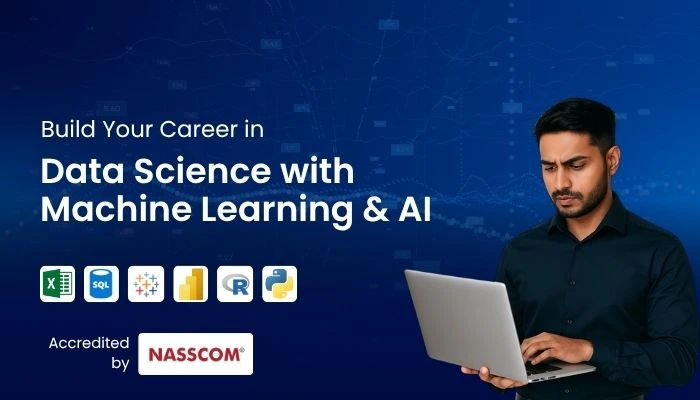
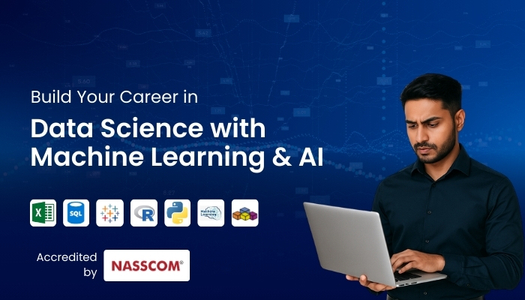
added image

diff --git a/src/components/home/FeaturedCourses.tsx b/src/components/home/FeaturedCourses.tsx
@@ -23,7 +23,7 @@ import CDEI from "@/assests/CDEI.webp";
 import DSPAP from "@/assests/DSPAP.webp";
 import Image, { StaticImageData } from 'next/image';
 import Link from 'next/link';
-import DSMAI from "@/assests/DSM&AI.webp";
+import DSMAI from "@/assests/ML.webp";
 import AIML from "@/assests/AI&ML.webp";
 interface Course {
   id: string;
